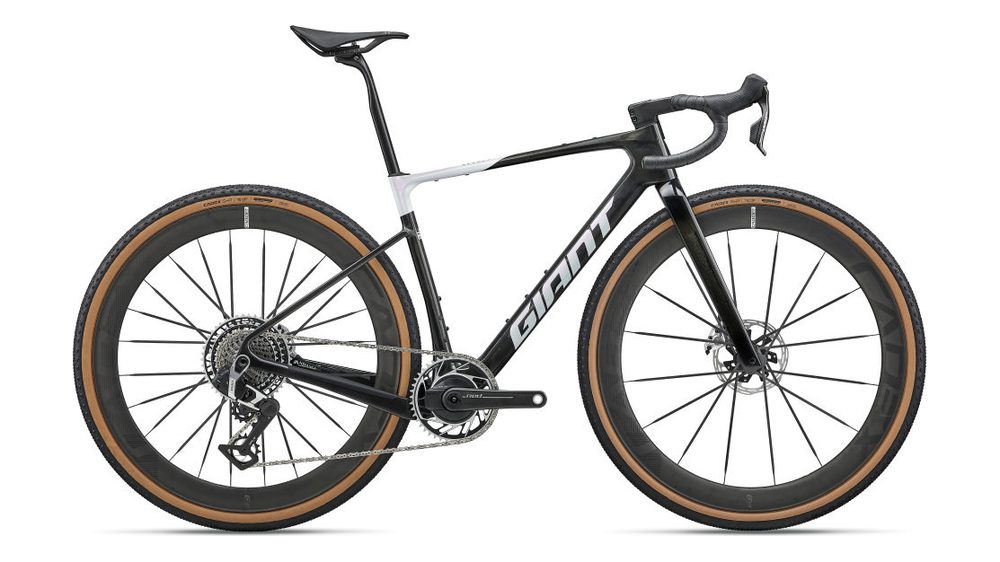
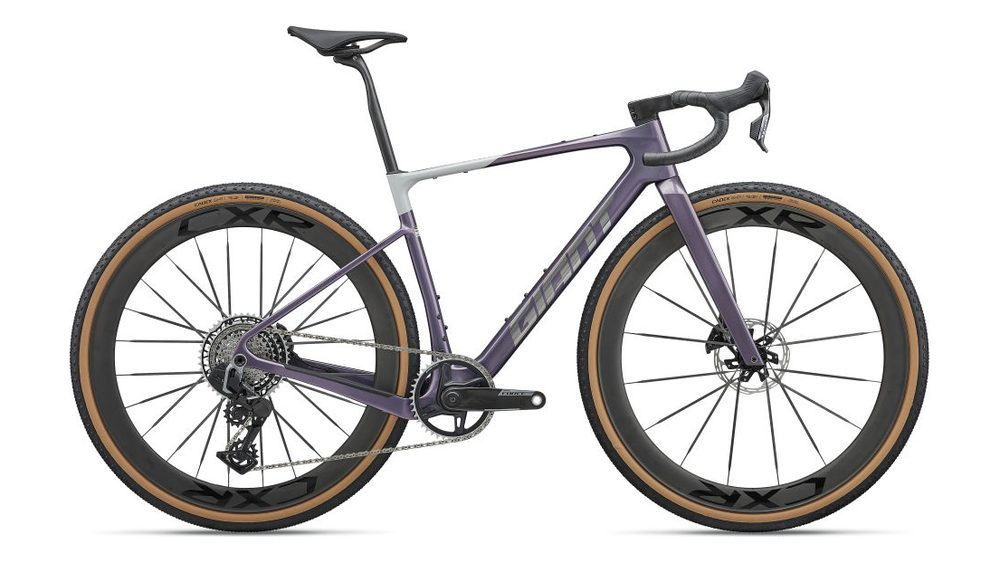
Colour photos on the right colour, swatches in the photo's colour
Giant's page shows other models' photos too, and lists its colours in another
order than the photo letters, so colour photos were picked from the wrong
model or swapped (Propel Advanced 2: Mach Blue showed the white bike). They're
now matched by model and colour name, and Giant's photos downloaded again.

Swatches take the frame's colour from the colour's own photo (the brand's own
swatch colour still wins for Specialized), so a swatch looks like the bike it
switches to. A photo another colour of the model already uses is dropped (a
Factor frameset showed Cyan Blue for Prismatic Gold). The model's main photo
is its first colour's, the one the first swatch names. Colour names read a
plain colour word before a brand word (Blaze Purple is purple).

Claude-Session: https://claude.ai/code/session_01QatJ5r6ejotKsKZWbTqEfJ

Changed region(s): [[0.062, 0.0302, 0.93, 0.968], [0.744, 0.9377, 0.775, 0.968]]

diff --git a/webapp/seed.py b/webapp/seed.py
@@ -2,6 +2,7 @@
 
 Run from the repo root:  python -m webapp.seed
 """
+import functools
 import glob
 import html
 import json
@@ -95,7 +96,9 @@ def pick_image(bike):
     often wrong. Pick by filename instead.
     """
     if bike.get("image"):  # brand_scrapers saves one product shot per model
-        return bike["image"]
+        # and one per colour: show the first colour's, the one the model page's first swatch names
+        first = (bike.get("color_images") or [None])[0]
+        return first if first and os.path.exists(os.path.join(ROOT, "images", first)) else bike["image"]
     if bike["brand"] == "Canyon":
         return canyon_image(bike["name"])
     if bike["brand"] == "Trek":
@@ -152,14 +155,17 @@ def photo_years(bike):
 
 
 def colorways(bike, image):
-    """[{name, swatch, image, hex}] per colour the brand lists; the model's own photo when it has one colour.
+    """[{name, swatch, image, hex, photo_hex}] per colour the brand lists; the model's own photo when it has one colour.
 
-    The photos are Canyon's own files, or the ones brand_scrapers saved per colour (color_images);
-    hex is the swatch colour the brand shows, where it gives one (Specialized).
+    The photos are Canyon's own files, or the ones brand_scrapers saved per colour (color_images); a
+    photo that another colour of the model already has is left out, it's not of this colour. hex is
+    the swatch colour the brand shows, where it gives one (Specialized); photo_hex the frame's colour
+    in the photo. The swatch is the brand's colour, else the photo's, else one read from the name.
     """
     names = bike.get("color_names") or ([bike["color"]] if bike.get("color") else [])
     ids = bike.get("color_ids") or []
     saved = bike.get("color_images") or []
+    urls = bike.get("color_image_urls") or []
     hexes = bike.get("color_hexes") or []
     ways = []
     for i, name in enumerate(names):
@@ -167,11 +173,67 @@ def colorways(bike, image):
             photo = canyon_colour_image(bike.get("sku"), ids[i]) if i < len(ids) else None
         else:
             photo = saved[i] if i < len(saved) and saved[i] and os.path.exists(os.path.join(ROOT, "images", saved[i])) else None
+            if photo and i < len(urls) and urls[i] in urls[:i]:
+                photo = None
         if len(names) == 1:
             photo = photo or image
         brand_hex = hexes[i] if i < len(hexes) else None
-        ways.append({"name": name, "swatch": brand_hex or swatch(name), "image": photo, "hex": brand_hex})
+        photo_hex = photo_colour(photo)
+        ways.append({"name": name, "swatch": brand_hex or photo_hex or swatch(name), "image": photo,
+                     "hex": brand_hex, "photo_hex": photo_hex})
     return ways
+
+
+def photo_colour(image):
+    try:
+        return _photo_colour(image, os.path.getmtime(os.path.join(ROOT, "images", image))) if image else None
+    except OSError:
+        return None
+
+
+@functools.lru_cache(maxsize=4096)
+def _photo_colour(image, _mtime):
+    """The frame's colour in a catalogue photo, as #rrggbb; None without a usable photo.
+
+    Looks at the top of the frame, between the wheels and above the cranks, where the paint is. When a
+    fifth of that is coloured, the commonest hue wins; else it's a white, grey or black bike, and the
+    light or the dark pixels win, whichever there are enough of.
+    """
+    try:
+        import numpy as np
+        from PIL import Image
+        with Image.open(os.path.join(ROOT, "images", image)) as img:
+            img = img.convert("RGB")
+            img.thumbnail((320, 320))
+    except (OSError, ValueError):
+        return None
+    a = np.asarray(img, dtype=np.float32)
+    corners = np.concatenate([a[:3, :3].reshape(-1, 3), a[-3:, -3:].reshape(-1, 3),
+                              a[:3, -3:].reshape(-1, 3), a[-3:, :3].reshape(-1, 3)])
+    diff = np.abs(a - np.median(corners, axis=0)).max(axis=2)
+    ys, xs = np.nonzero(diff > 30)
+    if len(xs) < 50:
+        return None
+    x0, y0, w, h = xs.min(), ys.min(), xs.max() - xs.min(), ys.max() - ys.min()
+    top = (slice(int(y0 + .08 * h), int(y0 + .48 * h)), slice(int(x0 + .3 * w), int(x0 + .7 * w)))
+    px = a[top][diff[top] > 10] / 255
+    if len(px) < 30:
+        return None
+    mx = px.max(axis=1)
+    spread = np.maximum(mx - px.min(axis=1), 1e-6)
+    coloured = (spread / np.maximum(mx, 1e-6) > 0.22) & (mx > 0.2)
+    if coloured.mean() >= 0.2:
+        c, cmx, d = px[coloured], mx[coloured], spread[coloured]
+        r, g, b = c[:, 0], c[:, 1], c[:, 2]
+        hue = np.where(cmx == r, ((g - b) / d) % 6, np.where(cmx == g, (b - r) / d + 2, (r - g) / d + 4)) / 6
+        bins = (hue * 24).astype(int) % 24
+        counts = np.bincount(bins, minlength=24)
+        peak = (counts + np.roll(counts, 1) + np.roll(counts, -1)).argmax()
+        colour = np.median(c[np.isin(bins, [(peak - 1) % 24, peak, (peak + 1) % 24])], axis=0)
+    else:
+        light = px[mx > 0.6]
+        colour = np.median(light if len(light) >= 0.35 * len(px) else px[mx <= 0.6], axis=0)
+    return "#%02x%02x%02x" % tuple(int(round(v * 255)) for v in colour)
 
 
 def _canyon_key(text):

diff --git a/tests/test_colour_match.py b/tests/test_colour_match.py
@@ -24,6 +24,7 @@ def test_ad_colours(title, description, colours):
     ("surfblue 'n' black", ["blue", "black"]),
     ("Royal Plum (Matt) - Fantasy Purple C. View (Gloss)", ["purple"]),
     ("Chalk", ["white"]),
+    ("Blaze Purple", ["purple"]),
     ("Satin Solidity Metallic", []),
 ])
 def test_brand_colour_names(name, families):
@@ -66,6 +67,18 @@ def test_report_says_which_colour(tmp_path):
     assert "Addict_30_colour_nebula_purple.jpg" in page
 
 
+def test_swatch_is_the_frame_colour_in_the_photo():
+    purple = seed.photo_colour("Scott/Addict_30_colour_nebula_purple.jpg")
+    assert colour_match.hex_family(purple) == "purple"
+    assert colour_match.hex_family(seed.photo_colour("Scott/Addict_30_colour_carbon_black.jpg")) in ("black", "grey")
+    assert colour_match.hex_family(seed.photo_colour("Scott/Addict_20_colour_cumulus_white.jpg")) == "white"
+    ways = seed.colorways({"brand": "Scott", "name": "Addict 30", "color_names": ["nebula purple", "sand green"],
+                           "color_images": ["Scott/Addict_30_colour_nebula_purple.jpg", "Scott/Addict_30_colour_sand_green.jpg"],
+                           "color_image_urls": ["u1", "u1"]}, None)
+    assert ways[0]["swatch"] == purple
+    assert ways[1]["image"] is None  # the same photo as the first colour's: not of this colour
+
+
 def test_colourways_use_the_saved_colour_photos():
     bike = {"brand": "Scott", "name": "Addict 30", "color_names": ["carbon black", "nebula purple", "Kaze"],
             "color_images": ["Scott/Addict_30_colour_carbon_black.jpg", None, "Scott/missing.jpg"],
@@ -77,11 +90,14 @@ def test_colourways_use_the_saved_colour_photos():
 
 
 def test_giant_colour_photo_is_the_side_view_of_that_colour():
-    files = ["ACarbon", "ACarbon-D2", "ACarbon_Rear", "BIllusionWhite-D1", "BIllusionWhite", "BIllusionWhite_B"]
-    page = " ".join(f"{letter * 20}/MY25TCRAdvanced2-KOM_Color{f}.jpg" for letter, f in zip("abcdef", files))
-    assert giant.colour_photo(page, 0).endswith("/" + "a" * 20 + "/MY25TCRAdvanced2-KOM_ColorACarbon.jpg")
-    assert giant.colour_photo(page, 1).endswith("/" + "e" * 20 + "/MY25TCRAdvanced2-KOM_ColorBIllusionWhite.jpg")
-    assert giant.colour_photo(page, 2) is None
+    # The page also shows other models, and lists Mach Blue first though its photos are colour B.
+    files = ["MY27PropelAdvanced2_ColorAWhite", "MY27PropelAdvanced2_ColorBMachBlue", "MY27PropelAdvanced2_ColorBMachBlue-D2",
+             "MY27PropelAdvanced1_ColorACarbon", "MY27PropelAdvanced2_ColorAWhite_Rear", "MY25PropelAdvancedPro0-Di2_ColorBMercury"]
+    page = " ".join(f"{letter * 20}/{f}.jpg" for letter, f in zip("abcdef", files))
+    assert giant.colour_photo(page, "Propel Advanced 2", "Mach Blue").endswith("/" + "b" * 20 + "/MY27PropelAdvanced2_ColorBMachBlue.jpg")
+    assert giant.colour_photo(page, "Propel Advanced 2", "White").endswith("/" + "a" * 20 + "/MY27PropelAdvanced2_ColorAWhite.jpg")
+    assert giant.colour_photo(page, "Propel Advanced 2", "Carbon") is None  # Propel Advanced 1's
+    assert giant.colour_photo(page, "Propel Advanced Pro 0 Di2", "Mercury").endswith("_ColorBMercury.jpg")
 
 
 def test_factor_photo_per_colour():

diff --git a/brand_scrapers/giant.py b/brand_scrapers/giant.py
@@ -53,10 +53,11 @@ def parse(page, url):
     sizes = [clean(s) for s in re.findall(r"<th scope=col name=framesize>(.*?)</th>", page)]
     product_id = re.search(r"data-product-id=(\d+)", page)
     year = re.search(r"-(20\d\d)$", url)
+    model = re.sub(r"\s*\(?20\d\d\)?$", "", clean(name.group(1)))  # some h1s end in the model year
     colours = next((clean(v).split(", ") for k, v in pairs if clean(k) == "Kleuren"), [])
     colours = [c for c in colours if c]
     return {
-        "name": re.sub(r"\s*\(?20\d\d\)?$", "", clean(name.group(1))),  # some h1s end in the model year
+        "name": model,
         "brand": BRAND,
         "url": url,
         "sku": product_id.group(1) if product_id else None,
@@ -68,17 +69,23 @@ def parse(page, url):
         "sizes": list(dict.fromkeys(sizes)),
         # The og:image is padded to 800x600 on white; ask for a larger one.
         "image_url": image.group(1).replace("h_600", "h_750").replace("w_800", "w_1000") if image else None,
-        "color_image_urls": [colour_photo(page, i) for i in range(len(colours))],
+        "color_image_urls": [colour_photo(page, model, c) for c in colours],
     }
 
 
-def colour_photo(page, i):
-    """The side view of the page's i-th colour. Giant names photos by colour letter: MY25TCRAdvanced2-KOM_ColorBIllusionWhite.jpg
-    is the side view of colour B, with -D1, -Rear, -Front and _Action for the close-ups, other angles and
-    riding photos."""
-    letter = "ABCDEFGH"[i] if i < 8 else None
-    found = sorted(set(re.findall(r"([a-z0-9]{20}/MY\d\d[A-Za-z0-9_-]*?_Color%s[A-Za-z0-9_]*\.jpg)" % letter, page)))
-    found = [f for f in found if not re.search(r"(?i)[-_](D-?\d+|Rear|Front|Action|B)(?=[-_.])|blacktires", f)]
+def colour_photo(page, model, colour):
+    """The side view of one colour of this model. Giant names photos by model and colour:
+    MY25TCRAdvanced2-KOM_ColorBIllusionWhite.jpg, with -D1, -Rear, -Front and _Action for the close-ups,
+    other angles and riding photos. The page also shows other models' photos, and its colour list
+    isn't in the order of the letters, so both names have to match."""
+    name = "-?".join(re.escape(c) for c in re.sub(r"[^A-Za-z0-9]", "", model))  # "Pro 0 Di2" is filed as Pro0-Di2
+    keys = [re.sub(r"[^A-Za-z0-9]", "", part).lower() for part in colour.split("/")]
+    found = []
+    for path, shade in re.findall(r"([a-z0-9]{20}/MY\d\d%s(?:-[A-Za-z]+)?_Color[A-H]([A-Za-z0-9_-]*)\.jpg)" % name, page):
+        if re.search(r"(?i)[-_](D-?\d+|Rear|Front|Action|B)(?=[-_.\d]|$)|blacktires", shade + "."):
+            continue
+        if any(k and re.sub(r"[^A-Za-z0-9]", "", shade).lower().startswith(k) for k in keys):
+            found.append(path)
     if not found:
         return None
     return "https://images2.giant-bicycles.com/b_white%2Cc_pad%2Ch_750%2Cq_80%2Cw_1000/" + min(found, key=len)

diff --git a/webapp/colour_match.py b/webapp/colour_match.py
@@ -56,15 +56,22 @@ def similarity(a, b):
 
 
 def families_in(text, brand_words=False):
-    """The colour families named in a text, in order: "Carbon / Red" gives ["black", "red"] with brand words."""
+    """The colour families named in a text, in order: "Carbon / Red" gives ["black", "red"] with brand
+    words. Within one part of a name a plain colour word wins: "Blaze Purple" is purple, not orange."""
     found = []
-    for word in re.findall(r"[a-zà-ÿ-]+", (text or "").lower()):
-        for w in {word, _SHADE.sub("", word), re.sub(r"e$", "", _SHADE.sub("", word))}:
-            family = _PLAIN.get(w) or (_BRAND.get(w) if brand_words else None)
-            if family:
-                if family not in found:
-                    found.append(family)
-                break
+    for part in re.split(r"[/&,+]| - | 'n' | n | and | en ", (text or "").lower()):
+        plain, brand = [], []
+        for word in re.findall(r"[a-zà-ÿ-]+", part):
+            for w in (word, _SHADE.sub("", word), re.sub(r"e$", "", _SHADE.sub("", word))):
+                if w in _PLAIN:
+                    plain.append(_PLAIN[w])
+                    break
+                if brand_words and w in _BRAND:
+                    brand.append(_BRAND[w])
+                    break
+        for family in plain or brand:
+            if family not in found:
+                found.append(family)
     return found
 
 
@@ -108,8 +115,10 @@ def hex_family(value):
 
 
 def colourway_families(cw):
-    """A colourway's families from its name; from the brand's swatch colour when the name is all fancy words."""
-    return families_in(cw.get("name"), brand_words=True) or [f for f in [hex_family(cw.get("hex"))] if f]
+    """A colourway's families from its name; when the name is all fancy words ("Satin Solidity Metallic",
+    "artline"), from the brand's swatch colour or the frame's colour in its photo."""
+    return (families_in(cw.get("name"), brand_words=True)
+            or [f for f in [hex_family(cw.get("hex") or cw.get("photo_hex"))] if f])
 
 
 def by_text(colourways, wanted):
